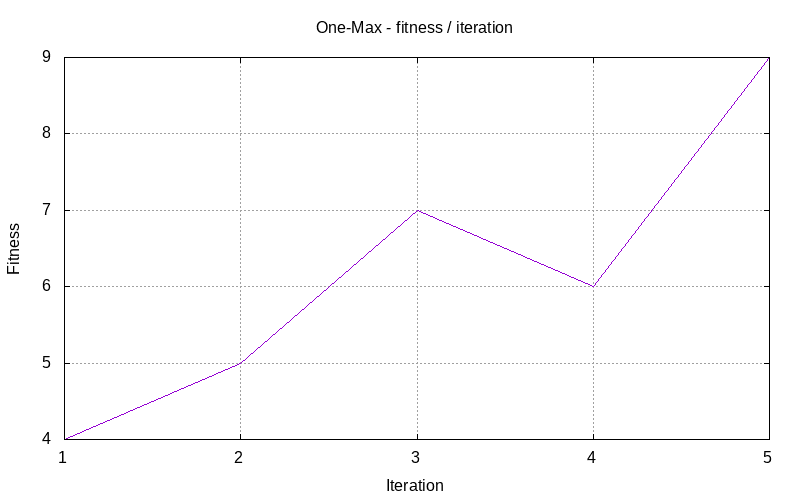
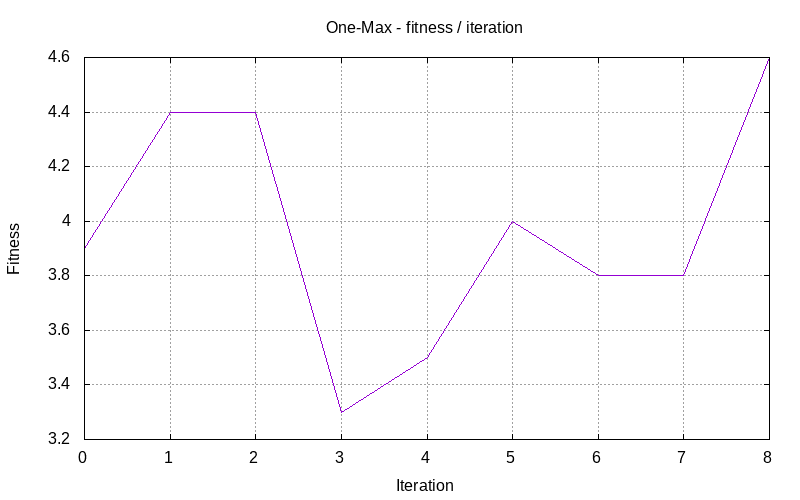
generation fichier d entree

diff --git a/src/kab/geneticalgorithm/utils/Main.java b/src/kab/geneticalgorithm/utils/Main.java
@@ -1,6 +1,8 @@
 package kab.geneticalgorithm.utils;
 
 import java.io.IOException;
+import java.io.PrintWriter;
+import java.util.ArrayList;
 import java.util.Arrays;
 
 import javax.swing.JOptionPane;
@@ -8,7 +10,7 @@ import javax.swing.JOptionPane;
 public class Main {
 	public static final int TAILLE_POPULATION = 10;
 	public static final int TAILLE_INDIVIDU = 8;
-	public static final int NOMBRE_ITERATION = 1;
+	public static final int NOMBRE_ITERATION = 100;
 	
 	public static void main(String[] args) throws IOException, InterruptedException {
 		
@@ -16,6 +18,8 @@ public class Main {
 		
 		Population pop = new Population(TAILLE_POPULATION, TAILLE_INDIVIDU).initialiationPopulation();
 		GeneticAlgorithm GA = new GeneticAlgorithm();
+		
+		ArrayList <Double> fitnessGenerat = new ArrayList <Double>();
 		
 		int nb_iteration = 0;
 		while (nb_iteration < NOMBRE_ITERATION && pop.getIndividus()[0].getFitness() != TAILLE_INDIVIDU ) {			
@@ -27,14 +31,33 @@ public class Main {
 			
 			//pop = GA.evaluationPopulation(pop);
 			pop.TrierIndividusParFitness();
-			System.out.println("------------------ Generation " + nb_iteration + " -----------------");
+			
+			double fitnessGeneration = 0;
+			for (int x=0; x<TAILLE_POPULATION; x++) {
+				fitnessGeneration = fitnessGeneration + (pop.getIndividus()[x].getFitness());
+			}
+			
+			fitnessGenerat.add(fitnessGeneration/TAILLE_POPULATION);
+			
+			System.out.println("## Generation " + nb_iteration + " | Fitness Moyenne: "+ fitnessGeneration/TAILLE_POPULATION);
 			affichagePpulation(pop);
 		}
+		
+//		for (int t=0; t<fitnessGenerat.size(); t++) {
+//			System.out.println(fitnessGenerat.get(t));
+//		}
 		
 		int afficherCourbe = JOptionPane.showOptionDialog(
 				null, "Voulez-vous voir la courbe Fitness/Iteration ?", "Courbe Fitness",
 	            JOptionPane.YES_NO_OPTION, JOptionPane.QUESTION_MESSAGE, null, null, null);
 		if (afficherCourbe == 0) {
+			PrintWriter writer = new PrintWriter("data.dat", "UTF-8");
+			writer.println("Iteration Fitness");
+			for (int i=0; i<nb_iteration; i++) {
+				writer.println(i +" "+fitnessGenerat.get(i));
+			}
+			
+			writer.close();
 			courbe.draw();
 		} else {
 			System.exit(0);
